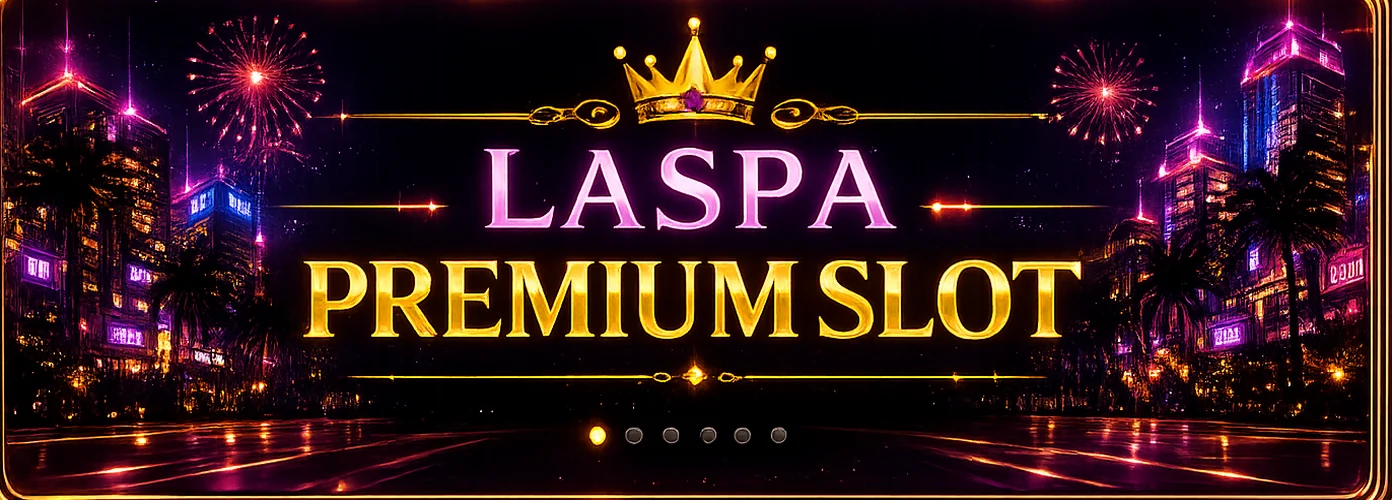
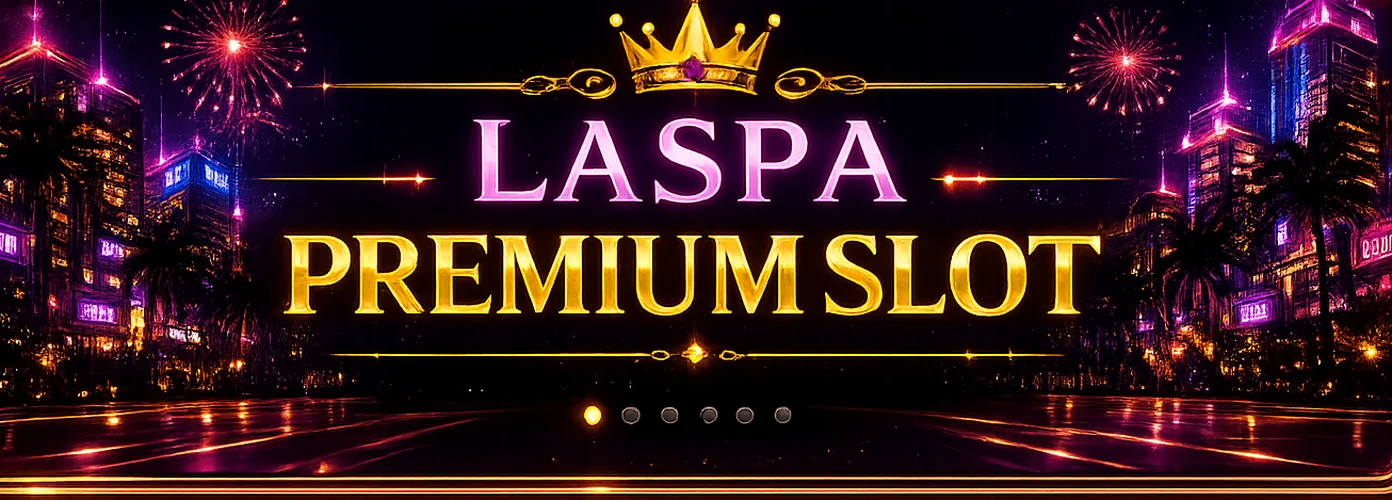
Add files via upload

diff --git a/index.html b/index.html
@@ -175,6 +175,12 @@ canvas{display:block;width:100%;height:auto}
   background:linear-gradient(90deg,#74f7ff,#fff1aa,#ff9f1a);box-shadow:0 0 20px rgba(255,211,106,.25)
 }
 .main-actions button.secondary{background:rgba(255,255,255,.08);color:#fff;border:1px solid rgba(255,255,255,.14);box-shadow:none}
+.back-to-slot{
+  margin-top:12px;
+  position:relative;
+  z-index:90;
+}
+.back-to-slot button{pointer-events:auto}
 .ticket-card{
   margin-top:12px;border-radius:22px;padding:14px;background:linear-gradient(135deg,rgba(255,211,106,.22),rgba(116,247,255,.10),rgba(255,45,85,.08)),rgba(255,255,255,.055);
   border:1px solid rgba(255,211,106,.55);box-shadow:0 0 24px rgba(255,211,106,.16);position:relative;overflow:hidden
@@ -192,6 +198,18 @@ canvas{display:block;width:100%;height:auto}
   width:100%;margin-top:10px;border:0;border-radius:14px;padding:13px;background:linear-gradient(90deg,#ffd36a,#ff9f1a);font-weight:1000;color:#1c0900;font-size:15px
 }
 .ticket-card .use:disabled{opacity:.55;filter:grayscale(1)}
+.prize-list,.rules-list{display:grid;gap:10px;margin-top:12px}
+.prize-row,.rules-list div{
+  border:1px solid rgba(255,211,106,.34);
+  border-radius:14px;
+  padding:10px 12px;
+  background:rgba(255,255,255,.055);
+  color:#fff5c8;
+  font-size:13px;
+  line-height:1.5;
+}
+.prize-row strong{display:block;color:#fff;font-size:15px;margin-bottom:3px}
+.prize-row span{color:#9dfcff;font-weight:900}
 .empty{text-align:center;margin-top:12px;padding:25px 14px;border-radius:20px;border:1px solid rgba(255,255,255,.12);background:rgba(0,0,0,.25);color:#c3d8e8;font-size:13px;line-height:1.7}
 .modal{display:none;position:fixed;inset:0;background:rgba(0,0,0,.72);z-index:100;align-items:flex-end;justify-content:center;padding:14px}
 .modal.show{display:flex}
@@ -412,10 +430,10 @@ body{
 #slotView .controls:after{display:none!important;}
 #slotView .push{
   position:absolute;
-  left:35.9%;
-  top:66.6%;
-  width:28.4%;
-  height:17.1%;
+  left:33.3%;
+  top:53.5%;
+  width:33.4%;
+  height:18.2%;
   transform:none;
   z-index:14;
   border-radius:50%;
@@ -472,8 +490,10 @@ body{
 }
 .nav button:before{display:none!important;}
 #navHome{grid-column:1;}
-#navSlot{grid-column:3;}
 #navTickets{grid-column:2;}
+#navPrizes{grid-column:3;}
+#navRules{grid-column:4;}
+#navSettings{grid-column:5;}
 #homeView.active,#ticketsView.active,.line-gate{
   position:relative;
   z-index:40;
@@ -611,6 +631,21 @@ body{
   background:transparent;
   color:transparent;
   cursor:pointer;
+  display:none;
+}
+.top-ticket-hit{
+  position:fixed;
+  left:calc((100vw - min(573px,100vw)) / 2 + 10px);
+  top:12px;
+  width:112px;
+  height:34px;
+  z-index:125;
+  border:0;
+  border-radius:10px;
+  background:transparent;
+  color:transparent;
+  cursor:pointer;
+  display:none;
 }
 .pin-modal{
   display:none;
@@ -733,6 +768,37 @@ body{
   object-fit:fill;
   object-position:center;
 }
+#slotView .led-ticker{
+  position:absolute;
+  left:31.5%;
+  top:20.9%;
+  width:37.2%;
+  height:2.35%;
+  z-index:9;
+  overflow:hidden;
+  border-radius:999px;
+  pointer-events:none;
+  color:#ffd84d;
+  font-weight:1000;
+  font-size:clamp(9px,2.4vw,14px);
+  line-height:1;
+  letter-spacing:.08em;
+  text-shadow:0 0 5px #ff9f1a,0 0 10px rgba(255,65,180,.75),0 0 14px rgba(255,211,106,.6);
+  -webkit-mask-image:linear-gradient(90deg,transparent,#000 12%,#000 88%,transparent);
+  mask-image:linear-gradient(90deg,transparent,#000 12%,#000 88%,transparent);
+}
+#slotView .led-ticker span{
+  position:absolute;
+  top:44%;
+  left:100%;
+  white-space:nowrap;
+  transform:translateY(-50%);
+  animation:ledTicker 6.2s linear infinite;
+}
+@keyframes ledTicker{
+  from{left:100%}
+  to{left:-72%}
+}
 .nav{
   position:fixed !important;
   left:50% !important;
@@ -756,6 +822,12 @@ body{
   width:calc(min(464px,100vw) * .20) !important;
   height:calc(min(464px,100vw) * 1694 / 928 * .045) !important;
 }
+.top-ticket-hit{
+  left:calc((100vw - min(464px,100vw)) / 2 + min(464px,100vw) * .025) !important;
+  top:calc(min(464px,100vw) * 1694 / 928 * .020) !important;
+  width:calc(min(464px,100vw) * .23) !important;
+  height:calc(min(464px,100vw) * 1694 / 928 * .045) !important;
+}
 </style>
 </head>
 <body>
@@ -768,9 +840,11 @@ body{
   <section class="machine" id="machine">
     <div class="inner" id="inner">
       <div class="nav">
-        <button id="navHome" class="active">HOME</button>
-        <button id="navSlot">SLOT</button>
-        <button id="navTickets">TICKET</button>
+        <button id="navHome" class="active" aria-label="ホーム">HOME</button>
+        <button id="navTickets" aria-label="マイチケット">TICKET</button>
+        <button id="navPrizes" aria-label="景品一覧">PRIZES</button>
+        <button id="navRules" aria-label="ルール・注意事項">RULES</button>
+        <button id="navSettings" aria-label="設定">SETTINGS</button>
       </div>
 
       <div class="demo-toggle" id="demoToggle">🧪 DEMO</div>
@@ -823,6 +897,7 @@ body{
           <source srcset="LASPA-PREMIUM-SLOT/assets/laspa-premium-slot-official-frame.webp" type="image/webp">
           <img class="laspa-reference-frame" src="LASPA-PREMIUM-SLOT/assets/laspa-premium-slot-official-frame.png" alt="LASPA PREMIUM SLOT 完成UIフレーム" decoding="async" fetchpriority="high">
         </picture>
+        <div class="led-ticker" aria-label="イベント告知"><span>夏のイベント開催中</span></div>
         <div class="screen">
           <div class="status" id="status">PUSH TO START</div>
           <div class="canvas-wrap">
@@ -857,8 +932,38 @@ body{
         <div class="panel">
           <h2>My Tickets</h2>
           <p>スタッフ確認後、お客様自身で「使用する」を押してください。</p>
+          <div class="main-actions back-to-slot"><button class="secondary" data-back-slot>筐体へ戻る</button></div>
           <div id="ticketsList"></div>
+          <div class="main-actions back-to-slot"><button class="secondary" data-back-slot>筐体へ戻る</button></div>
           <div class="warn">スクリーンショットではご利用いただけません。必ず店頭QRから開いた画面をご提示ください。</div>
+        </div>
+      </div>
+
+      <div class="view" id="prizesView">
+        <div class="panel">
+          <h2>景品一覧</h2>
+          <p>今回の抽選で当たる景品です。</p>
+          <div class="main-actions back-to-slot"><button class="secondary" data-back-slot>筐体へ戻る</button></div>
+          <div class="prize-list" id="prizeList"></div>
+          <div class="main-actions back-to-slot"><button class="secondary" data-back-slot>筐体へ戻る</button></div>
+          <div class="warn">景品内容は店頭運用時の設定に従います。</div>
+        </div>
+      </div>
+
+      <div class="view" id="rulesView">
+        <div class="panel">
+          <h2>ルール・注意事項</h2>
+          <p>ご利用前に以下をご確認ください。</p>
+          <div class="main-actions back-to-slot"><button class="secondary" data-back-slot>筐体へ戻る</button></div>
+          <div class="rules-list">
+            <div>同じスマホでは1日1回まで抽選できます。</div>
+            <div>抽選回数は毎日00:00にリセットされます。</div>
+            <div>当選チケットはマイチケット画面に保存されます。</div>
+            <div>未使用チケットがある場合、使用後に次回抽選できます。</div>
+            <div>チケットはスタッフ確認後、お客様自身で「使用する」を押してください。</div>
+            <div>スクリーンショットではご利用いただけません。必ず店頭QRから開いた画面をご提示ください。</div>
+          </div>
+          <div class="main-actions back-to-slot"><button class="secondary" data-back-slot>筐体へ戻る</button></div>
         </div>
       </div>
 
@@ -869,6 +974,7 @@ body{
 
 
 <button class="menu-pin-hit" id="menuPinHit" aria-label="メニュー"></button>
+<button class="top-ticket-hit" id="topTicketHit" aria-label="マイチケット"></button>
 <div class="pin-modal" id="pinModal" aria-hidden="true">
   <div class="pin-card" role="dialog" aria-modal="true" aria-labelledby="pinTitle">
     <h2 id="pinTitle">管理メニュー</h2>
@@ -1089,10 +1195,13 @@ function setView(name){
  document.querySelectorAll(".view").forEach(v=>v.classList.remove("active"));
  document.getElementById(name+"View").classList.add("active");
  document.querySelectorAll(".nav button").forEach(b=>b.classList.remove("active"));
+ document.getElementById("topTicketHit").style.display=name==="slot"?"block":"none";
+ document.getElementById("menuPinHit").style.display=name==="slot"?"block":"none";
  const nav=document.getElementById("nav"+name.charAt(0).toUpperCase()+name.slice(1));
  if(nav)nav.classList.add("active");
  if(name==="home")renderHome();
  if(name==="tickets")renderTickets();
+ if(name==="prizes")renderPrizes();
  if(name==="slot"){updateSpinState();requestRender();}
 }
 function renderHome(){
@@ -1104,7 +1213,7 @@ function renderHome(){
  else{hs.textContent="本日の抽選に参加できます。PUSHで運試し！"}
 }
 function updateSpinState(){
- if(hasUnusedTicket()){spinBtn.disabled=true;spinBtn.textContent="チケット使用後に抽選可能";statusEl.textContent="未使用チケットがあります"}
+ if(hasUnusedTicket()){spinBtn.disabled=true;spinBtn.textContent="未使用チケットあり";statusEl.textContent="未使用チケットがあります"}
  else if(alreadyDrawn()){spinBtn.disabled=true;spinBtn.textContent="本日は抽選済み";statusEl.textContent="本日の抽選は利用済み"}
  else{spinBtn.disabled=false;spinBtn.textContent="🔴 PUSH";statusEl.textContent="PUSH TO START"}
 }
@@ -1136,6 +1245,11 @@ function renderTickets(){
   </div>`
  }).join("");
  list.querySelectorAll("[data-use]").forEach(b=>b.addEventListener("click",()=>openUseModal(b.dataset.use)))
+}
+function renderPrizes(){
+ const list=document.getElementById("prizeList");
+ if(!list)return;
+ list.innerHTML=prizes.map(p=>`<div class="prize-row"><strong>${p.rank}</strong>${p.name}<br><span>当選確率 ${p.rate}%</span></div>`).join("");
 }
 function openUseModal(id){
  selectedTicketId=id;
@@ -1527,10 +1641,15 @@ function premiumShow(title,sub){
 
 /* Events */
 document.getElementById("navHome").addEventListener("click",()=>setView("home"));
-document.getElementById("navSlot").addEventListener("click",()=>setView("slot"));
 document.getElementById("navTickets").addEventListener("click",()=>setView("tickets"));
+document.getElementById("navPrizes").addEventListener("click",()=>setView("prizes"));
+document.getElementById("navRules").addEventListener("click",()=>setView("rules"));
+document.getElementById("navSettings").addEventListener("click",()=>window.openAdminPin&&window.openAdminPin());
 document.getElementById("homeToSlot").addEventListener("click",()=>setView("slot"));
 document.getElementById("homeToTickets").addEventListener("click",()=>setView("tickets"));
+document.addEventListener("click",e=>{
+ if(e.target.closest("[data-back-slot]"))setView("slot");
+});
 spinBtn.addEventListener("click",()=>startSpin());
 
 document.getElementById("confirmUse").addEventListener("click",()=>{
@@ -1542,9 +1661,14 @@ document.getElementById("useModal").addEventListener("click",(e)=>{if(e.target.i
 document.getElementById("demoToggle").addEventListener("click",()=>document.getElementById("demoPanel").classList.toggle("show"));
 document.querySelectorAll("[data-demo]").forEach(btn=>btn.addEventListener("click",()=>{document.getElementById("demoPanel").classList.remove("show");setView("slot");startSpin(btn.dataset.demo,true)}));
 document.getElementById("resetToday").addEventListener("click",()=>{
- if(!confirm("デモ確認用に全データをリセットしますか？"))return;
- Object.values(CONFIG.storage).forEach(k=>localStorage.removeItem(k));
- location.reload();
+ if(!confirm("デモ確認用に抽選状態とチケットをリセットしますか？"))return;
+ [CONFIG.storage.draw,CONFIG.storage.last,CONFIG.storage.tickets].forEach(k=>localStorage.removeItem(k));
+ localStorage.setItem(CONFIG.storage.line,"true");
+ ticket.classList.remove("show");
+ document.getElementById("demoPanel").classList.remove("show");
+ setView("slot");
+ updateSpinState();
+ requestRender();
 });
 
 /* LINE gate */
@@ -1587,6 +1711,7 @@ updateSpinState();
     modal.classList.remove('show');
     modal.setAttribute('aria-hidden','true');
   }
+  window.openAdminPin=openPin;
   function unlock(){
     if(input.value==='3939'){
       closePin();
@@ -1597,6 +1722,7 @@ updateSpinState();
     input.select();
   }
   hit.addEventListener('click',openPin);
+  document.getElementById('topTicketHit').addEventListener('click',()=>setView('tickets'));
   submit.addEventListener('click',unlock);
   cancel.addEventListener('click',closePin);
   modal.addEventListener('click',e=>{if(e.target===modal)closePin();});